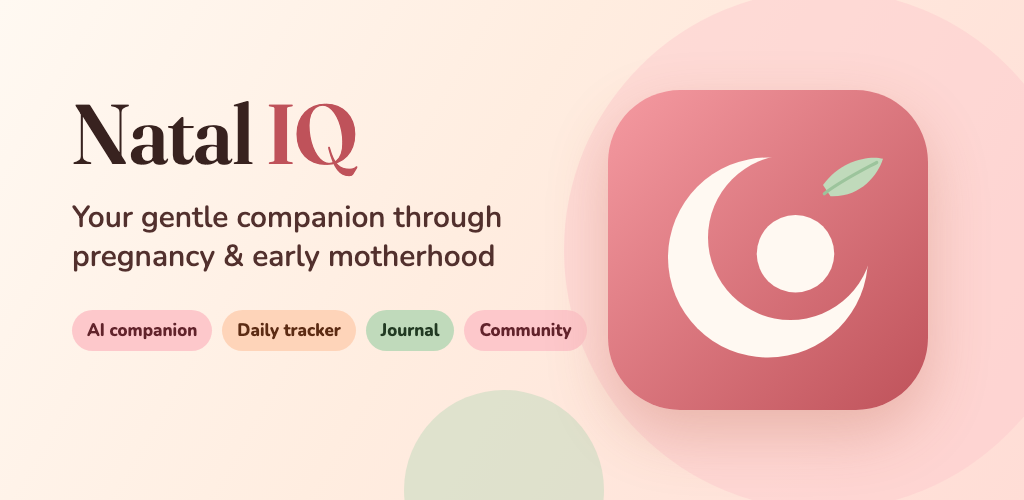
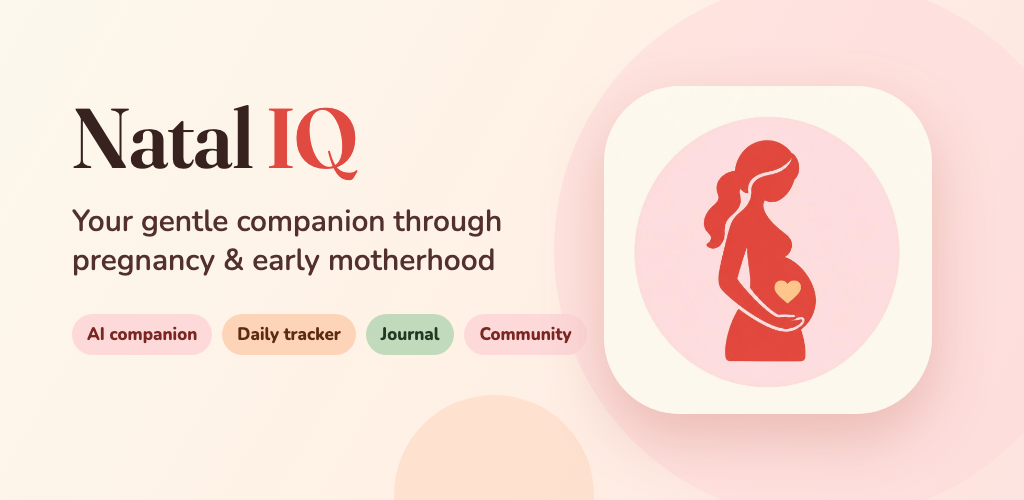
changes

diff --git a/store/src/feature.html b/store/src/feature.html
@@ -2,39 +2,24 @@
 @font-face{font-family:Fraunces;src:url(Fraunces.ttf)}
 @font-face{font-family:Nunito;src:url(Nunito.ttf)}
 html,body{margin:0;width:1024px;height:500px;overflow:hidden}
-.wrap{position:relative;width:1024px;height:500px;background:linear-gradient(120deg,#FFF9F2 0%,#FFEDE0 45%,#FFDDD6 100%);font-family:Nunito}
+.wrap{position:relative;width:1024px;height:500px;background:linear-gradient(120deg,#FCF8ED 0%,#FFF1E6 50%,#FDE3DF 100%);font-family:Nunito}
 .blob{position:absolute;border-radius:50%}
-.text{position:absolute;left:72px;top:92px;width:560px;color:#38221F}
+.text{position:absolute;left:72px;top:96px;width:560px;color:#38221F}
 h1{font-family:Fraunces;font-weight:600;font-size:84px;margin:0;letter-spacing:-1px;line-height:1}
-h1 span{color:#BF525A}
+h1 span{color:#E04A40}
 p{font-size:30px;line-height:1.3;margin:22px 0 34px;color:#52302D;font-weight:600}
 .chips{display:flex;flex-wrap:wrap;gap:10px}
 .chip{font-size:17px;font-weight:800;padding:9px 15px;border-radius:999px}
-.b{background:#FDC8CB;color:#61232B}.p{background:#FED4B9;color:#5C2B13}.s{background:#C0DABB;color:#223A23}
-.icon{position:absolute;right:96px;top:90px;width:320px;height:320px;border-radius:72px;overflow:hidden;box-shadow:0 24px 60px rgba(180,90,60,.28)}
+.b{background:#FDD9DA;color:#7A2621}.p{background:#FED4B9;color:#5C2B13}.s{background:#C0DABB;color:#223A23}
+.icon{position:absolute;right:92px;top:86px;width:328px;height:328px;border-radius:76px;overflow:hidden;box-shadow:0 24px 60px rgba(180,70,50,.25)}
+.icon img{width:100%;height:100%;display:block}
 </style></head><body><div class="wrap">
-<div class="blob" style="width:520px;height:520px;right:-60px;top:-10px;background:#FDC8CB;opacity:.45"></div>
-<div class="blob" style="width:200px;height:200px;right:420px;bottom:-90px;background:#C0DABB;opacity:.5"></div>
+<div class="blob" style="width:540px;height:540px;right:-70px;top:-20px;background:#FDD9DA;opacity:.55"></div>
+<div class="blob" style="width:200px;height:200px;right:430px;bottom:-95px;background:#FED4B9;opacity:.5"></div>
 <div class="text">
 <h1>Natal <span>IQ</span></h1>
 <p>Your gentle companion through pregnancy &amp; early motherhood</p>
 <div class="chips"><div class="chip b">AI companion</div><div class="chip p">Daily tracker</div><div class="chip s">Journal</div><div class="chip b">Community</div></div>
 </div>
-<div class="icon"><svg width="320" height="320" viewBox="0 0 512 512" xmlns="http://www.w3.org/2000/svg">
-<defs><linearGradient id="bg" x1="0" y1="0" x2="1" y2="1"><stop offset="0" stop-color="#F59AA1"/><stop offset="1" stop-color="#BF525A"/></linearGradient></defs>
-<rect width="512" height="512" fill="url(#bg)"/>
-<defs>
-  <mask id="cres">
-    <rect x="0" y="0" width="512" height="512" fill="white"/>
-    <circle cx="292" cy="236" r="132" fill="black"/>
-  </mask>
-</defs>
-<!-- crescent: the embrace -->
-<circle cx="256" cy="268" r="160" fill="#FFF9F2" mask="url(#cres)"/>
-<!-- baby -->
-<circle cx="300" cy="262" r="62" fill="#FFF9F2"/>
-<!-- sage leaf sprig -->
-<path d="M344 152 C 372 112, 420 104, 440 110 C 432 136, 404 172, 356 170 Z" fill="#C0DABB"/>
-<path d="M346 166 C 372 146, 400 132, 430 116" stroke="#9CC49C" stroke-width="5" fill="none" stroke-linecap="round"/>
-</svg></div>
+<div class="icon"><img src="icon.jpeg"></div>
 </div></body></html>
